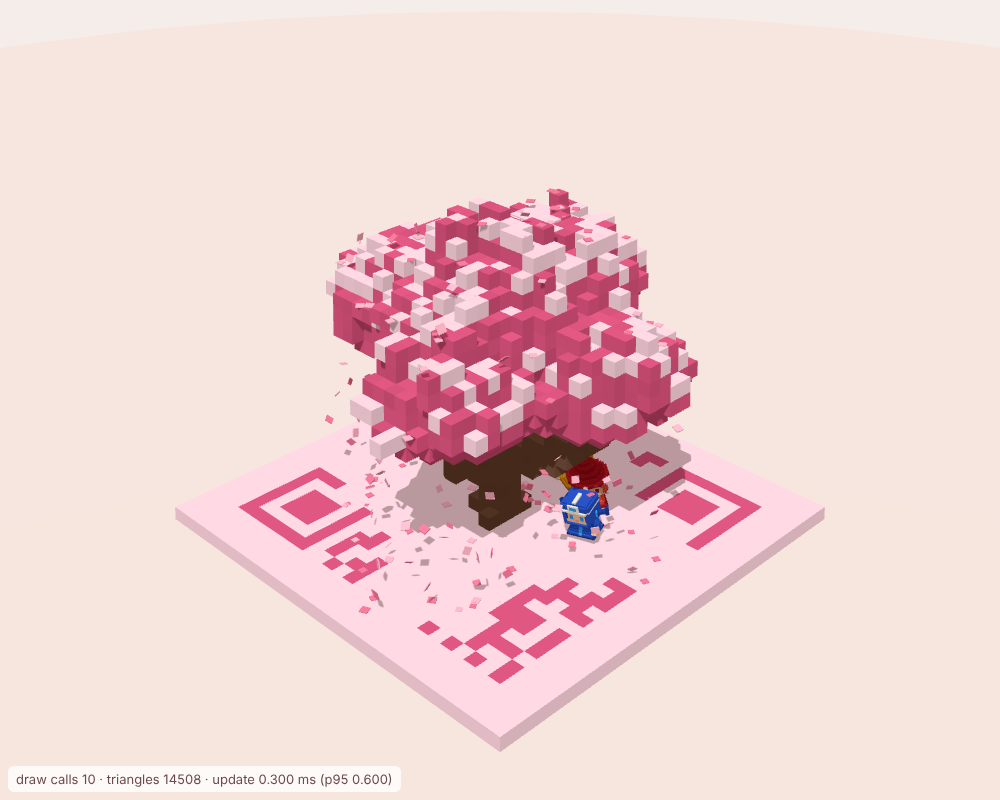
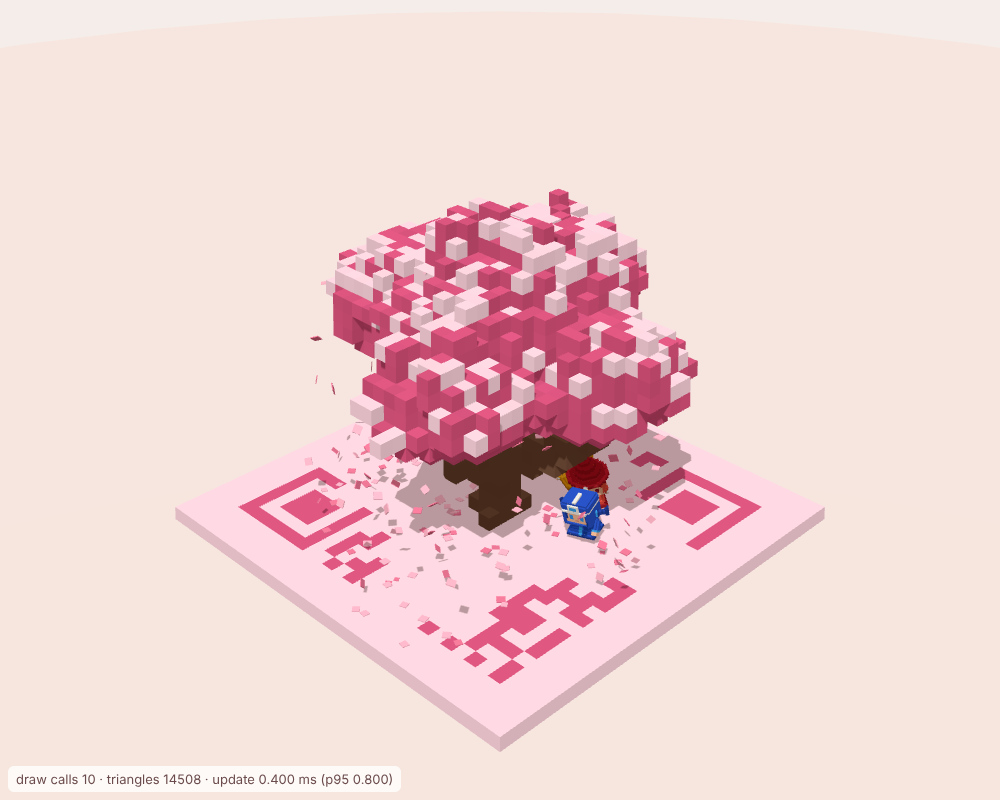
No petals above the canopy
Petals used to appear on top of the canopy with an upward gust, so some were seen floating over the tree.
They now appear only under the canopy's overhang and beside its outer walls (at least a cube below the wall's
top), always starting downwards. The self-check counts petals in the air higher than the canopy top within
two cubes; it was 93 with the old spawning and is 0 now.

Claude-Session: https://claude.ai/code/session_01FetaT53w5iQdLWHoFnmCoa

diff --git a/scene.js b/scene.js
@@ -97,12 +97,12 @@ export default async function setup({ THREE = THREE_NS, stage, tree, info, mode 
   let clock = 0;
 
   function respawn(p) {
-    const top = spawns.top.length && (rand() < 0.45 || !spawns.under.length);
-    const list = top ? spawns.top : spawns.under;
+    const fromSide = spawns.side.length && (rand() < 0.5 || !spawns.under.length);
+    const list = fromSide ? spawns.side : spawns.under;
     if (!list.length) { p.state = HIDDEN; p.timer = 5; return; }
     const k = Math.floor(rand() * list.length / 3) * 3;
     p.x = list[k]; p.y = list[k + 1]; p.z = list[k + 2];
-    p.vy = top ? 0.5 + rand() * 0.5 : 0;
+    p.vy = 0;
     p.ix = p.iz = 0;
     p.yaw = rand() * 6.28; p.angle = rand() * 6.28;
     p.state = GROW; p.timer = 0;
@@ -379,26 +379,34 @@ function buildField(THREE, tree, info) {
   };
 }
 
-// Places just outside the canopy where a petal can appear: on top of it and under its overhang.
+// Places just outside the canopy where a petal can appear: under its overhang, and beside its outer walls below
+// their top edge. Never above the canopy, so no petal is ever seen floating over the tree.
 function spawnPoints(field, info, plateTop) {
-  const top = [], under = [], r = PETAL_RV, rh = PETAL_RH, S = SAMPLES;
+  const side = [], under = [], r = PETAL_RV, rh = PETAL_RH, S = SAMPLES;
+  const NB = [[3, 0], [-3, 0], [0, 3], [0, -3]];            // neighbours 0.75 cube away
   for (let j = 1; j < field.nz; j += 2) for (let i = 1; i < field.nx; i += 2) {
     const runs = field.runs[j * field.nx + i];
-    if (runs.length < 2) continue;
     const x = field.x0 + (i + 0.5) / S, z = field.z0 + (j + 0.5) / S;
-    const last = runs[runs.length - 1];
-    if (last > plateTop + 4) {
-      const y = last + r + 0.05;
-      if (!field.footBlocked(x, z, y - r, y + r, rh)) top.push(x, y, z);
-    }
-    for (let k = 2; k < runs.length; k += 2) {
+    for (let k = 2; k < runs.length; k += 2) {               // undersides
       const b = runs[k], below = runs[k - 1];
       if (b - below < 2 * r + 0.5 || b < plateTop + 3) continue;
       const y = b - r - 0.05;
       if (!field.footBlocked(x, z, y - r, y + r, rh)) under.push(x, y, z);
     }
+    for (const [di, dj] of NB) {                             // beside a canopy wall, at least a cube below its top
+      const ni = i + di, nj = j + dj;
+      if (ni < 0 || nj < 0 || ni >= field.nx || nj >= field.nz) continue;
+      const wall = field.runs[nj * field.nx + ni];
+      for (let k = 0; k < wall.length; k += 2) {
+        const b = wall[k], t = wall[k + 1];
+        if (t < plateTop + 4) continue;                      // trunk base and roots: not canopy
+        for (let y = Math.max(b, plateTop + 3) + r; y <= t - 1 - r; y += 1) {
+          if (!field.footBlocked(x, z, y - r, y + r, rh)) side.push(x, y, z);
+        }
+      }
+    }
   }
-  return { top, under };
+  return { side, under };
 }
 
 // A circle round the trunk, about half way out to the plate's edge, kept off anything solid (where a low branch or

diff --git a/index.html b/index.html
@@ -155,7 +155,7 @@ renderer.setAnimationLoop(now => {
 //  * is everything within the plate plus 3 cubes and above y = 0, do the walkers stay on the plate?
 //  * do two walkers ever come closer than their radii allow?
 async function check() {
-  const out = { samples: 0, points: 0, insideTree: [], outOfBounds: [], offPlate: [], walkerOverlap: 0, petalsLanded: { plate: 0, canopy: 0 } };
+  const out = { samples: 0, points: 0, insideTree: [], outOfBounds: [], offPlate: [], walkerOverlap: 0, petalsAboveCanopy: 0, aboveCanopy: [], petalsLanded: { plate: 0, canopy: 0 } };
   const solid = [];
   tree.updateMatrixWorld(true);
   tree.traverse(o => {
@@ -213,6 +213,12 @@ async function check() {
         if (inside(v)) note(out.insideTree, ['petal ' + i, step / 30, v.toArray().map(n => +(n / cell).toFixed(2))]);
       }
       const e = m4.elements;
+      if (Math.abs(e[5]) < 0.99 * Math.hypot(e[4], e[5], e[6])) {        // tumbling → in the air: not above the canopy top near it
+        const g = info.grid, col = Math.floor((e[12] - g.origin[0]) / cell), row = Math.floor((e[14] - g.origin[1]) / cell);
+        let top = 0;
+        for (let r = row - 2; r <= row + 2; r++) for (let c = col - 2; c <= col + 2; c++) if (g.surface[r] && g.surface[r][c] > top) top = g.surface[r][c];
+        if (top > 1 && e[13] / cell > top) { out.petalsAboveCanopy++; note(out.aboveCanopy, ['petal ' + i, step / 30, [e[12] / cell, e[13] / cell, e[14] / cell].map(n => +n.toFixed(2)), top]); }
+      }
       if (Math.abs(e[5]) > 0.99 * Math.hypot(e[4], e[5], e[6])) {        // lying flat → resting
         const y = e[13] / cell;
         if (y < info.plate.top / cell + 0.1) out.petalsLanded.plate++; else out.petalsLanded.canopy++;

diff --git a/README.md b/README.md
@@ -23,7 +23,7 @@ const { update, dispose } = await setup({ THREE, stage, tree, info, mode });
 ## 场景
 
 - **不放进树里。** 启动时把树自己的三角形按每格 4×4 的分辨率栅格化成竖直的“柱”，每根柱记下哪几段高度是实心的。花瓣和小人只会移动到这些柱显示为空的地方，所以别的码长出来的树也能直接用。
-- **花瓣。** 240 片，两种粉色，用一个 InstancedMesh 画。花瓣从树冠顶面或树冠下沿冒出来，被风吹着边转边落，落在底座或树冠顶上。停几秒后缩小消失（材质只用不透明的，所以用缩小代替淡出），再从树冠里重新出现。小人跑过时会把地上的花瓣踢起来。
+- **花瓣。** 240 片，两种粉色，用一个 InstancedMesh 画。花瓣从树冠下沿和树冠外侧的侧壁冒出来，从不出现在树冠上方，一开始就往下走，被风吹着边转边落，落在底座或较低的树冠台阶上。停几秒后缩小消失（材质只用不透明的，所以用缩小代替淡出），再从树冠里重新出现。小人跑过时会把地上的花瓣踢起来。
 - **小人。** `assets/walker-{blue,red,gold}.glb`，配色照参考像素小人：蓝色兜帽配两条辫子、红色法师帽、带角的金色头盔。每个小人是一个蒙皮网格，带一段 `run` 循环动画：身体前倾，并随摆臂左右扭转；手臂和腿大幅摆动；身体在双脚离地时最高、腿经过身下时最低。每一帧都整体抬高到最低点刚好贴地。蓝色小人的两条辫子是单独的关节：平时下垂，每次身体起伏后慢半拍甩起来，跑动时往后飘。
   - 小人沿一个以树干为圆心的圆跑，半径是树干到最近底座边缘距离的一半。只有遇到低矮的树枝和树根时才会偏离圆形绕过去。转弯时身体向内侧倾斜。
   - 蓝色领跑，红色和金色紧跟在后面，彼此忽近忽远。
@@ -51,6 +51,7 @@ node test/shots.mjs         # 无头 Chromium 跑自检，截图到 screenshots/
 - 每个小人的每个顶点（蒙皮之后）和每片花瓣的每个角，用向上的射线数穿过树的次数来判断是否在树里面。这个判断不依赖 scene.js 自己的碰撞柱。
 - 有没有东西超出底座 3 格，或者低于 y = 0。
 - 小人有没有走出底座，彼此有没有撞上。
+- 有没有花瓣飘在附近树冠顶面的上方。
 - 绘制调用、三角形数和 `update()` 的耗时。
 - `dispose()` 之后 stage 里是不是只剩下树。
 
